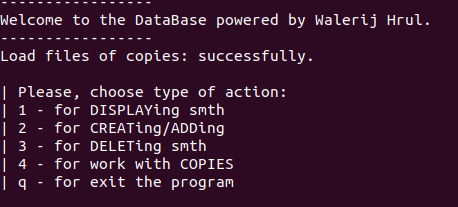
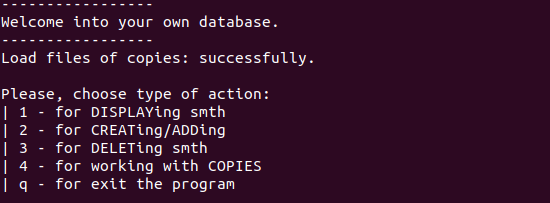
Update README. Add info about author when close the program.

diff --git a/menu.c b/menu.c
@@ -3,7 +3,14 @@
 void start()
 {
     puts("-----------------");
-    puts("Welcome to the DataBase powered by Walerij Hrul.");
+    puts("Welcome into your own database.");
+	puts("-----------------");
+}
+
+void end()
+{
+	puts("-----------------");
+	puts("Created by Walerij Hrul.");
     puts("-----------------");
 }
 
@@ -11,11 +18,11 @@ void menu( Project** projectHead, Manager** managerHead, Worker** workerHead, Pr
 {
 	char choice = '&';
 	while( 'q' != choice){
-		puts("\n| Please, choose type of action:");
+		puts("\nPlease, choose type of action:");
     	puts("| 1 - for DISPLAYing smth");
     	puts("| 2 - for CREATing/ADDing");
     	puts("| 3 - for DELETing smth");
-    	puts("| 4 - for work with COPIES");
+    	puts("| 4 - for working with COPIES");
     	puts("| q - for exit the program\n");
 
 		choice = mygetchar();
@@ -45,6 +52,7 @@ void menu( Project** projectHead, Manager** managerHead, Worker** workerHead, Pr
 				break;
 		}
 	}
+	end();
 }
 
 void show( Project* projectHead, Manager* managerHead, Worker* workerHead, Project_Worker* project_workerHead, SortW** sortHeadW, SortN** sortHeadN, bool* badAlloc ){

diff --git a/menu.h b/menu.h
@@ -21,6 +21,8 @@
 
 // show start info
 void start( void );
+// show info when exit the program
+void end( void );
 // show main menu
 void menu( Project** projectHead, Manager** managerHead, Worker** workerHead, Project_Worker** project_workerHead, SortW** sortHeadW, SortN** sortHeadN, CopyFile** copyFileHead, bool* badAlloc );
 

diff --git a/README.md b/README.md
@@ -1,12 +1,13 @@
-# data_base_files_C
+# Database of Projects-Managers-Workers
+# Author: Walerij Hrul
 
-Database managers-workers-projects with loading/saving data from/into files.
+Implementation of database in C with using own-implemented json-parsing
+- creating/removing projects, managers, workers and dependencies between them
+- creating/loading data-copies from/into files
+- show data in sorting mode
 
-Own implementation of json-parsing
-
-.h files contains brief descriptions of purpose of file and functions
-
-!!! You should have folder data/copies in folder with .out file
+### You should have folder data/copies in folder with .out file
+### .h files contains brief descriptions of purpose of file and functions
 
 ![photo1](img/1.png)</br>
 ![photo2](img/2.png)</br>
